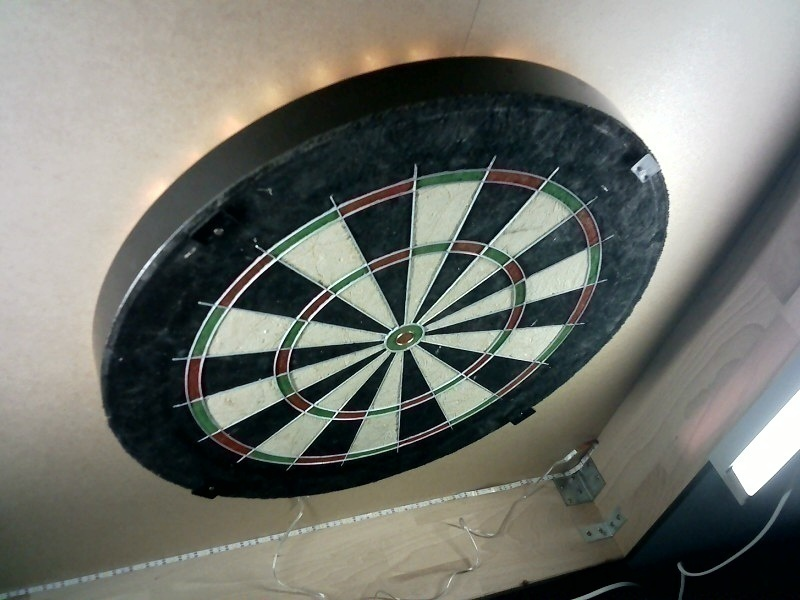
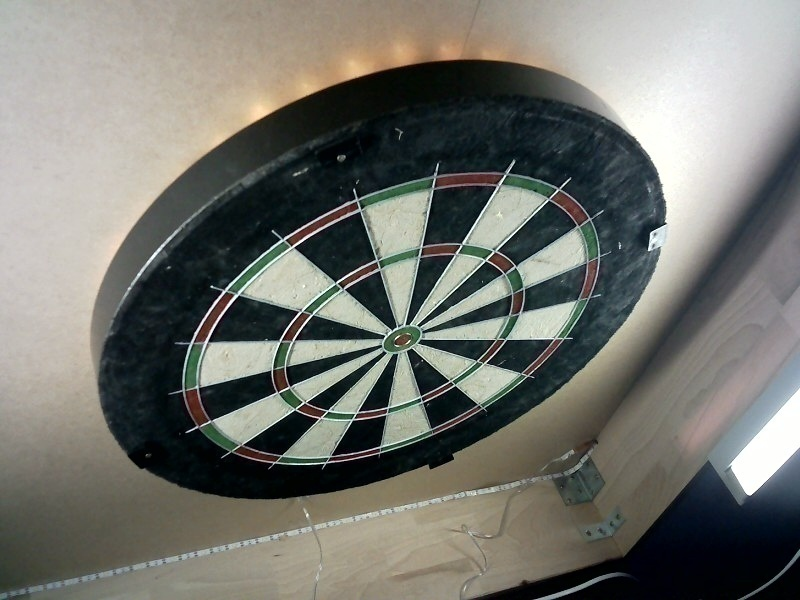
roughly merged calibration and detection, still static

diff --git a/Components/Calibration/Calibration_Cam_Matrix.py b/Components/Calibration/Calibration_Cam_Matrix.py
@@ -5,6 +5,7 @@ from VideoCapture import VideoStream
 from Utils import *
 from sympy import *
 from ellipseToCircle import *
+import pickle
 DEBUG = False
 
 def findEllipse(edged, image_proc_img):
@@ -12,10 +13,10 @@ def findEllipse(edged, image_proc_img):
     Ellipse = EllipseDef()
 
     contours, _ =  cv2.findContours(edged, 1, 2)
-    #cv2.drawContours(image_proc_img, contours, -1, (0, 255, 0), 3)
-    #cv2.imshow("counturs-all", image_proc_img)
+    # cv2.drawContours(image_proc_img, contours, -1, (0, 255, 0), 3)
+    # cv2.imshow("all-counturs", image_proc_img)
     minThresE = 80000
-    maxThresE = 150000
+    maxThresE = 100000
     for cnt in contours:
         print(cv2.contourArea(cnt));
         try:  # threshold critical, change on demand?
@@ -29,21 +30,18 @@ def findEllipse(edged, image_proc_img):
                 x, y = ellipse[0]
                 a, b = ellipse[1] 
                 angle = ellipse[2]
-                a -= 5
-                b -= 22
-                #cv2.drawContours(image_proc_img, cnt, -1, (255, 0, 0), 10)
-                #cv2.imshow("counturs-adasdasd", image_proc_img)
-                
-                center_ellipse = (x, y)
+                y += 5
+                # a -= 5
+                b -= 5
+                # cv2.drawContours(image_proc_img, cnt, -1, (255, 0, 0), 10)
                 
                 a = a / 2
                 b = b / 2
-
                 cv2.ellipse(image_proc_img, (int(x), int(y)), (int(a), int(b)), int(angle), 0.0, 360.0,
                             (255, 0, 0), 3)
                 cv2.circle(image_proc_img,  (int(x), int(y)), 5, (255, 255, 0), 3)
   
-                cv2.imshow("ellipse", image_proc_img)
+                cv2.imshow("sss", image_proc_img)
                 Ellipse.a = a
                 Ellipse.b = b
                 Ellipse.x = x
@@ -58,7 +56,7 @@ def findEllipse(edged, image_proc_img):
 def findSectorLines(edged, image_proc_img, angleZone1, angleZone2):
 
     # fit line to find intersec point for dartboard center point
-    lines = cv2.HoughLines(edged, 1, np.pi / 80, 100, 100)
+    lines = cv2.HoughLines(edged, 1, np.pi / 80, 105, 100)
 
     intersectLines = []
     intersectLines_XY_coord = []
@@ -75,7 +73,7 @@ def findSectorLines(edged, image_proc_img, angleZone1, angleZone2):
         x2 = int(x0 - 2000 * (-b))
         y2 = int(y0 - 2000 * (a))
         if theta > np.pi / 180 * angleZone1[0] and theta < np.pi / 180 * angleZone1[1]:
-            cv2.line(image_proc_img, (x1,y1),(x2, y2), (0, 0, 255),2)
+            cv2.line(image_proc_img, (x1,y1),(x2, y2), (0, 0, 255),2)           
             intersectLines.append(line[0]);
             intersectLines_XY_coord.append([(x1,y1),(x2,y2)])
         elif theta > np.pi / 180 * angleZone2[0] and theta < np.pi / 180 * angleZone2[1]:
@@ -83,12 +81,16 @@ def findSectorLines(edged, image_proc_img, angleZone1, angleZone2):
             intersectLines.append(line[0]);
             intersectLines_XY_coord.append([(x1,y1),(x2,y2)])
     
-    if len(intersectLines) == 2:
-        x, y = intersection(intersectLines[0], intersectLines[1])
-    else:
-        x, y = segmented_intersections(intersectLines)    
+    # if len(intersectLines) == 2:
+    #     x, y = intersection(intersectLines[0], intersectLines[1])
+    # else:
+    #     x, y = segmented_intersections(intersectLines)    
 
-    cv2.circle(image_proc_img,  (int(x), int(y)), 5, (255, 0, 255), 3)
+    # cv2.circle(image_proc_img,  (int(x), int(y)), 5, (255, 0, 255), 3)
+    
+        
+    cv2.imshow("lines-detected", image_proc_img)
+    
     return intersectLines_XY_coord, image_proc_img
 
 def locateRedSpots(img):
@@ -148,7 +150,7 @@ def initTransformationMatrix(image_proc_img):
     cv2.imshow("1-gray", gray)
     
     # return the edged image
-    edged = cv2.Canny(gray, 245, 255)  # imCal
+    edged = cv2.Canny(gray, 100, 255)  # imCal
     cv2.imshow("autocanny", edged)
     ret, inv_edge = cv2.threshold(edged, 0, 255, cv2.THRESH_BINARY_INV + cv2.THRESH_OTSU)
     cv2.imshow("2-inv_edge", inv_edge)
@@ -165,18 +167,13 @@ def initTransformationMatrix(image_proc_img):
     Ellipse, image_proc_img = findEllipse(inv_edge, image_proc_img)
     
     # TODO: optimize angleZones
-    angleZone1 = (Ellipse.angle - 5, Ellipse.angle + 5)
+    angleZone1 = (Ellipse.angle + 1 , Ellipse.angle + 5)
     angleZone2 = (Ellipse.angle + 80, Ellipse.angle + 100)
     lines_seg, image_proc_img = findSectorLines(edged, image_proc_img, angleZone1, angleZone2)
     
     intersectPoints, image_proc_img = getEllipseLineIntersection(Ellipse, lines_seg, image_proc_img)
 
-    for points in intersectPoints:
-        cv2.circle(image_proc_img,  (int(points[0]), int(points[1])), 10, (0, 255, 255), -1)
-    
-    cv2.imshow("test_Intersect", image_proc_img)
-    
-    return intersectPoints
+    return intersectPoints, Ellipse
     
 def calibrate(cam_R, cam_L):
 #------------------------------------------
@@ -208,15 +205,28 @@ def calibrate(cam_R, cam_L):
     #calData_L = CalibrationData()
 
     original = snapshot_cam_R.copy()
-    calData_R.intersectPoints = initTransformationMatrix(snapshot_cam_R)
-    calData_R.destinationPoints = [10, 0, 5, 15] # [0, 5, 10, 15]
-    calData_R.transformation_matrix = getFinalTransformationMatrix(original, calData_R)
+    calData_R.intersectPoints, Ellipse = initTransformationMatrix(snapshot_cam_R)
+    
+    calData_R.ellipsecenter = (Ellipse.x, Ellipse.y)
+    calData_R.destinationPoints = [8, 18, 13, 3] # [0, 5, 10, 15]
+    test = cv2.waitKey(0)
+    if test == 3:
+        print("done")
+    calData_R.transformation_matrix, transformed_image = getFinalTransformationMatrix(original, calData_R)
+    
+    test = cv2.waitKey(0)
+    if test == 9:
+        print("done")
+    #write the calibration data to a file
+    calFile = open("calibrationData_R.pkl", "wb")
+    pickle.dump(calData_R, calFile, 0)
+    calFile.close()
     
     test = cv2.waitKey(0)
     if test == 3:
         cv2.destroyAllWindows()
    
-    return calData_R
+    return calData_R, transformed_image
 
 
 if __name__ == '__main__':

diff --git a/Components/DartDetection/dart-detection.py b/Components/DartDetection/dart-detection.py
@@ -3,9 +3,11 @@ from skimage.metrics import structural_similarity as compare_ssim
 import imutils
 import cv2
 import numpy as np
+from startCallibration import *
+from showDartLocation import *
 
 
-def calc_image_difference(img_a, img_b):
+def calc_image_difference(image_a, image_b):
     """Calculates the difference between 2 images and creates a new image which contains the difference.
 
     Parameters
@@ -29,8 +31,8 @@ def calc_image_difference(img_a, img_b):
         ssim_score: a score which tells you how identical the images are (1 = identical)
     """
     # convert the images to grayscale
-    grayA = cv2.cvtColor(imageA, cv2.COLOR_BGR2GRAY)
-    grayB = cv2.cvtColor(imageB, cv2.COLOR_BGR2GRAY)
+    grayA = cv2.cvtColor(image_a, cv2.COLOR_BGR2GRAY)
+    grayB = cv2.cvtColor(image_b, cv2.COLOR_BGR2GRAY)
 
     # calc the difference between the two greyscale images to detect the thrown dart
     ssim_score, diff = calc_ssim(grayA, grayB)
@@ -256,12 +258,12 @@ if __name__ == "__main__":
     mode = 0
 
     # load the two input images
-    imageA = cv2.imread("Rechts-dart.jpg")
-    imageB = cv2.imread("Rechts-empty.jpg")
+    imageA = cv2.imread("Links-dart.jpg")
+    imageB = cv2.imread("Links-empty.jpg")
+    cal_data, transformed_image = getCalibration(imageA,imageA)
 
     if mode == 0:
         print("Test functions:")
-
         # preprocess image
         grayA, grayB, thresh, diff, score_ssim = calc_image_difference(imageA, imageB)
         print("SSIM: " + str(score_ssim))
@@ -295,10 +297,12 @@ if __name__ == "__main__":
         cv2.circle(imageA, (result[0], result[1]), radius=5, color=(0, 255, 255), thickness=-1)
 
         # show the output images
-        cv2.imshow("Original", cv2.resize(imageA, (1920, 1080)))
-        cv2.imshow("Modified", cv2.resize(imageB, (1920, 1080)))
-        cv2.imshow("Diff", cv2.resize(diff, (1920, 1080)))
-        cv2.imshow("Thresh", cv2.resize(thresh, (1920, 1080)))
+        cv2.imshow("Original", imageA)
+        cv2.imshow("Modified",imageB)
+        cv2.imshow("Diff", diff)
+        cv2.imshow("Thresh", thresh)
+        
+        new_dart_coord = showLatestDartLocationOnBoard(transformed_image, result, cal_data)
         cv2.waitKey(0)
 
     if mode == 1:

diff --git a/Components/DartDetection/startCallibration.py b/Components/DartDetection/startCallibration.py
@@ -1,0 +1,55 @@
+
+import os.path
+import sys
+import cv2
+import pickle
+p = os.path.abspath('D:/00_Studium/07_Semester/TeamProjekt/TeamProject-WiSe-DartImageProcessing/Components/Calibration')
+sys.path.insert(1, p)
+
+from Utils import *
+from  ellipseToCircle import *
+from  Calibration_Cam_Matrix import *
+
+def getCalibration(imCalRGB_R, imCalRGB_L):
+    imCalRGB_R = imCalRGB_R.copy();
+    imCalRGB_L = imCalRGB_L.copy()
+    if os.path.isfile("calibrationData_R.pkl"):
+            try:
+                return readCalibrationData(imCalRGB_R, imCalRGB_L)#, calData_L
+
+            #corrupted file
+            except EOFError as err:
+                print(err)
+    else: 
+        # cam_R = VideoStream(src=1).start() 
+        # cam_L = VideoStream(src=0).start()
+
+        # cam_R = cv2.imread("Links-empty.jpg") #
+        # cam_L = cv2.imread("Links-empty.jpg") # 
+        return calibrate(imCalRGB_R, imCalRGB_L)
+
+def readCalibrationData(imCalRGB_R, imCalRGB_L):
+    calFile = open('calibrationData_R.pkl', 'rb')
+    calData_R = CalibrationData()
+    calData_R = pickle.load(calFile)
+    calFile.close()
+
+    # calFile = open('calibrationData_R.pkl', 'rb')
+    # calData_L = CalibrationData()
+    # calData_L = pickle.load(calFile)
+    # calFile.close()
+
+    #copy image for old calibration data
+    transformed_img_R = imCalRGB_R.copy()
+    # transformed_img_L = imCalRGB_L.copy()
+
+    transformed_img_R = cv2.warpPerspective(imCalRGB_R, calData_R.transformation_matrix, (800, 800))
+    # transformed_img_L = cv2.warpPerspective(imCalRGB_L, calData_L.transformation_matrix, (800, 800))
+    draw_R = getNormilizedBoard(transformed_img_R, calData_R)
+    # draw_L = getNormilizedBoard(imCalRGB_R,imCalRGB_R)
+
+    # transformed_img_L = draw_L.drawBoard(transformed_img_L, calData_L)
+
+    cv2.imshow("Left_Cam", draw_R)
+    # cv2.imshow("Left Cam", transformed_img_L)
+    return calData_R , draw_R#, calData_L

diff --git a/Components/Calibration/ellipseToCircle.py b/Components/Calibration/ellipseToCircle.py
@@ -50,6 +50,10 @@ def getEllipseLineIntersection(Ellipse, lines_seg, image_proc_img):
         transformed_intersectpoints.append(inter_p1)
         transformed_intersectpoints.append(inter_p2)
     
+    for points in transformed_intersectpoints:
+         cv2.circle(image_proc_img,  (int(points[0]), int(points[1])), 10, (0, 255, 255), -1)
+
+    cv2.imshow("intersection points", image_proc_img)
     return transformed_intersectpoints, image_proc_img
 
 
@@ -84,7 +88,7 @@ def getFinalTransformationMatrix(original_img, calData):
     
     cv2.imshow('transformed_image_final', normilzed_board_image)
 
-    return transformation_matrix
+    return transformation_matrix, normilzed_board_image
 
 def getSectorAngle(i, calData):
     return (0.5 + i) * calData.sectorangle

diff --git a/Components/DartDetection/showDartLocation.py b/Components/DartDetection/showDartLocation.py
@@ -1,0 +1,11 @@
+import numpy as np
+import cv2
+
+def showLatestDartLocationOnBoard(transformed_image, locatedDart_coord, cal_data):
+    dart_loc_temp = np.array([[locatedDart_coord[0], locatedDart_coord[1]]], dtype="float32")
+    dart_loc_temp = np.array([dart_loc_temp])
+    dart_loc = cv2.perspectiveTransform(dart_loc_temp, cal_data.transformation_matrix)
+    new_dart_loc = tuple(dart_loc.reshape(1, -1)[0])
+    cv2.circle(transformed_image, (int(new_dart_loc[0]), int(new_dart_loc[1])), radius=10, color=(255, 0, 255), thickness=-1)
+    cv2.imshow("point detected", transformed_image)
+    return new_dart_loc

diff --git a/Components/Calibration/Utils.py b/Components/Calibration/Utils.py
@@ -10,6 +10,7 @@ class EllipseDef:
 
 class CalibrationData:
     def __init__(self):
+        self.ellipsecenter= (0,0)
         self.intersectPoints = []
         self.ring_radius = [14, 32, 194, 214, 320, 340]
         self.center_dartboard = (400, 400)
